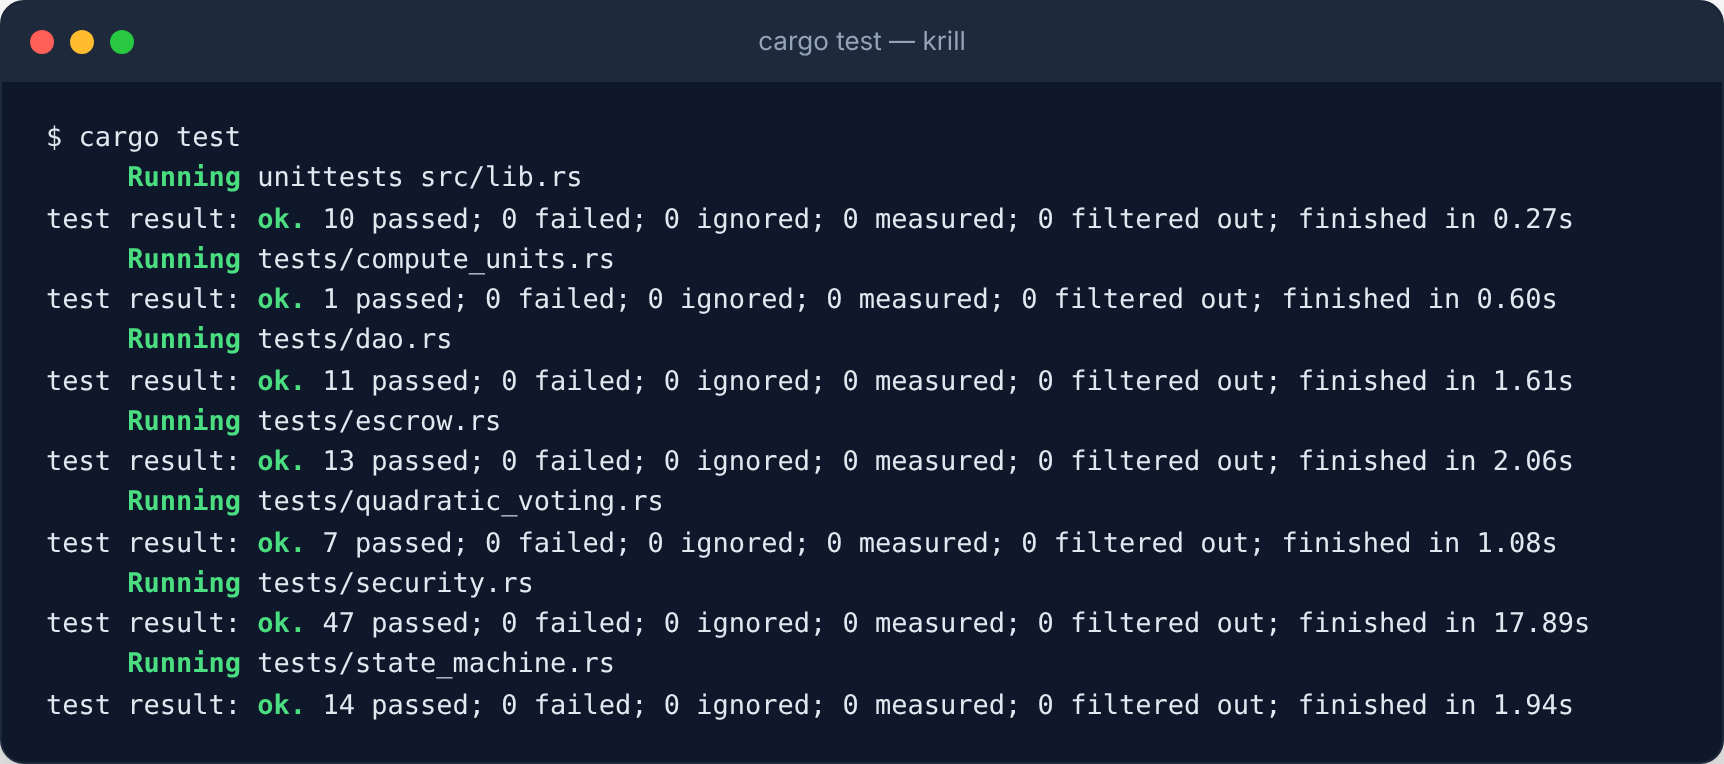
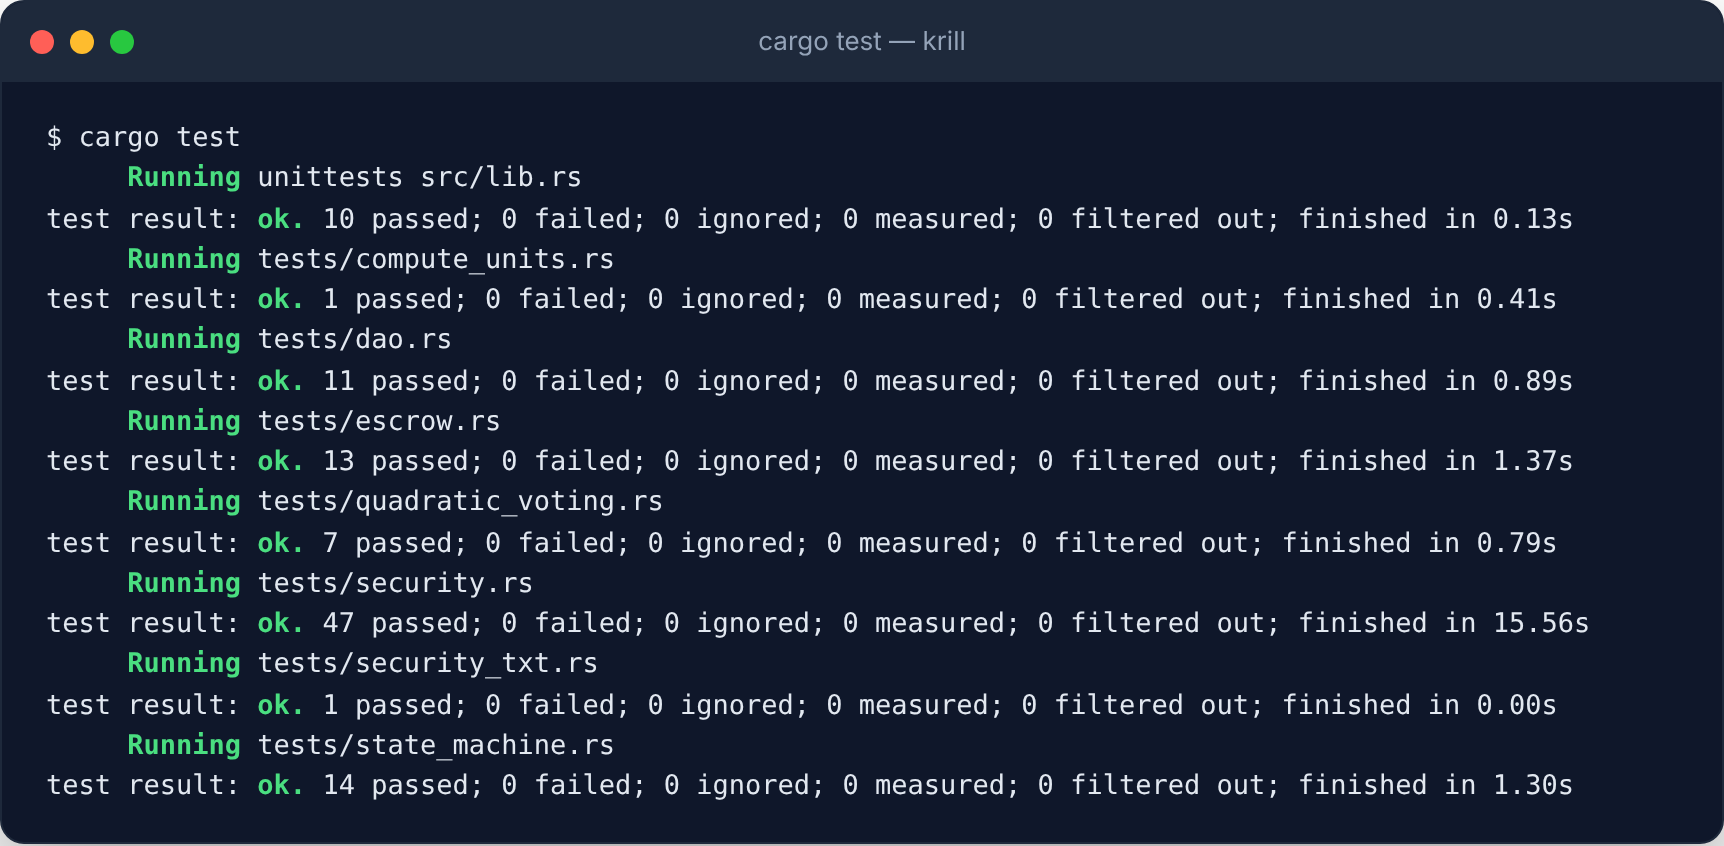
Embed a security.txt in the program
Explorers and auditors who find the program on chain can now read where the source lives and how to report a vulnerability straight from the program bytes (the solana-security-txt convention), matching SECURITY.md. A test parses the built binary and checks every field.

diff --git a/programs/krill/tests/security_txt.rs b/programs/krill/tests/security_txt.rs
@@ -1,0 +1,32 @@
+//! The security.txt embedded in the program bytes (see `lib.rs`) must survive
+//! the build and say what SECURITY.md says: where the source is and how to
+//! report a vulnerability.
+
+use solana_security_txt::{find_and_parse, Contact};
+
+const REPO: &str = "https://github.com/DervinEvolve/krill";
+
+#[test]
+fn program_bytes_carry_a_security_txt_pointing_at_the_repo() {
+    let bytes = include_bytes!(concat!(env!("CARGO_TARGET_TMPDIR"), "/../deploy/krill.so"));
+    let txt = find_and_parse(bytes).expect("the built program embeds a parseable security.txt");
+
+    assert_eq!(txt.name, "Krill");
+    assert_eq!(txt.project_url, REPO);
+    assert_eq!(txt.policy, format!("{REPO}/blob/main/SECURITY.md"));
+    assert_eq!(txt.source_code.as_deref(), Some(REPO));
+    assert_eq!(txt.preferred_languages, vec!["en".to_string()]);
+    let links: Vec<String> = txt
+        .contacts
+        .iter()
+        .map(|contact| match contact {
+            Contact::Link(link) => link.clone(),
+            _ => "not a link".to_string(),
+        })
+        .collect();
+    assert_eq!(
+        links,
+        vec![format!("{REPO}/security/advisories/new")],
+        "the one contact is the repo's private advisory form"
+    );
+}

diff --git a/programs/krill/src/lib.rs b/programs/krill/src/lib.rs
@@ -17,6 +17,19 @@ pub use instructions::*;
 
 declare_id!("4y17UBnZhA5iwU1n7RTZDmL6C9fv1FbDJLtECxAzVNjA");
 
+// A security.txt embedded in the program bytes, so explorers and auditors
+// who find the program on chain know where the source is and how to report
+// a vulnerability. The full policy is SECURITY.md at the repo root.
+#[cfg(not(feature = "no-entrypoint"))]
+solana_security_txt::security_txt! {
+    name: "Krill",
+    project_url: "https://github.com/DervinEvolve/krill",
+    contacts: "link:https://github.com/DervinEvolve/krill/security/advisories/new",
+    policy: "https://github.com/DervinEvolve/krill/blob/main/SECURITY.md",
+    preferred_languages: "en",
+    source_code: "https://github.com/DervinEvolve/krill"
+}
+
 #[program]
 pub mod krill {
     use super::*;

diff --git a/README.md b/README.md
@@ -263,7 +263,7 @@ Prerequisites: Rust stable, the Agave CLI 3.1 (`solana`, `cargo-build-sbf`, `sol
 
 ```bash
 anchor build          # compiles the program and writes target/idl/krill.json
-cargo test            # 103 tests: math unit tests + LiteSVM integration and security suites
+cargo test            # 104 tests: math unit tests + LiteSVM integration and security suites
 ```
 
 ```bash
@@ -295,9 +295,9 @@ The program goes to devnet through a GitHub workflow that builds it with `solana
 
 ## What the tests prove
 
-103 tests run against the compiled program in-process with LiteSVM. No validator to start, no sleeping; the tests set the clock past deadlines. `anchor build` then `cargo test` runs everything in about 30 seconds.
+104 tests run against the compiled program in-process with LiteSVM. No validator to start, no sleeping; the tests set the clock past deadlines. `anchor build` then `cargo test` runs everything in about 30 seconds.
 
-<p align="center"><img src="docs/images/cargo-test.png" width="880" alt="cargo test output: 10 unit tests, 1 compute-unit report, 11 DAO tests, 13 escrow tests, 7 quadratic voting tests, 47 security tests, 14 state machine tests, all passing"></p>
+<p align="center"><img src="docs/images/cargo-test.png" width="880" alt="cargo test output: 10 unit tests, 1 compute-unit report, 11 DAO tests, 13 escrow tests, 7 quadratic voting tests, 47 security tests, 1 security.txt test, 14 state machine tests, all passing"></p>
 
 | Suite | Tests | What it covers |
 |---|---|---|
@@ -308,6 +308,7 @@ The program goes to devnet through a GitHub workflow that builds it with `solana
 | `escrow` | 13 | sequential milestones, council-only approve/reject/cancel, exact payouts, completion, refunds |
 | `security` | 47 | one test per attack from the review, plus invariants: DAO balance equals rent plus pool after every instruction, lamports conserved across DAO, escrow and contractor, tallies equal the sum of receipts |
 | `compute_units` | 1 | prints the table below and asserts every instruction stays under the 200k default |
+| `security_txt` | 1 | reads the security.txt back out of the built program bytes and checks its contact, policy and source |
 
 <p align="center"><img src="docs/images/cargo-test-quadratic.png" width="880" alt="The quadratic voting suite: cannot switch sides, cannot vote with zero credits, cannot spend more than owned, non-members cannot vote, eleven krill outvote one whale, one thousand credits cast 31.622776601 votes, top up applies sqrt to cumulative credits"></p>
 

diff --git a/docs/SECURITY.md b/docs/SECURITY.md
@@ -274,6 +274,7 @@ limitation) or **n/a**.
 | `overflow-checks = true` in release | ok | `Cargo.toml:12` (workspace) |
 | `mut` only where data or lamports change | ok | read-only: `dao` in `approve_milestone.rs:13` and `reject_milestone.rs:12`, `member` in `create_proposal.rs:24`; `dao` is `mut` where lamports move (`execute.rs:15`, `cancel_escrow.rs:13`) |
 | `declare_id!` matches `Anchor.toml` and the keypair | ok | `src/lib.rs:18`, `Anchor.toml` `[programs.localnet]`, `solana-keygen pubkey target/deploy/krill-keypair.json` all give `4y17UBnZhA5iwU1n7RTZDmL6C9fv1FbDJLtECxAzVNjA` |
+| On-chain `security.txt` with contact, policy and source | ok | `src/lib.rs` (`security_txt!`), read back by `tests/security_txt.rs` |
 | `security.json` and root `SECURITY.md` | fixed (K-10) | `security.json`, `SECURITY.md` |
 
 ## 5. Known limitations

diff --git a/SECURITY.md b/SECURITY.md
@@ -38,3 +38,5 @@ clients in `app/` and `arena/`, and the documented limitations in
 ## Bounty
 
 There is no bug bounty program.
+
+The program also embeds a `security.txt` in its on-chain bytes (the [solana-security-txt](https://github.com/neodyme-labs/solana-security-txt) convention) with the same contact and policy, so explorers show them next to the program.
